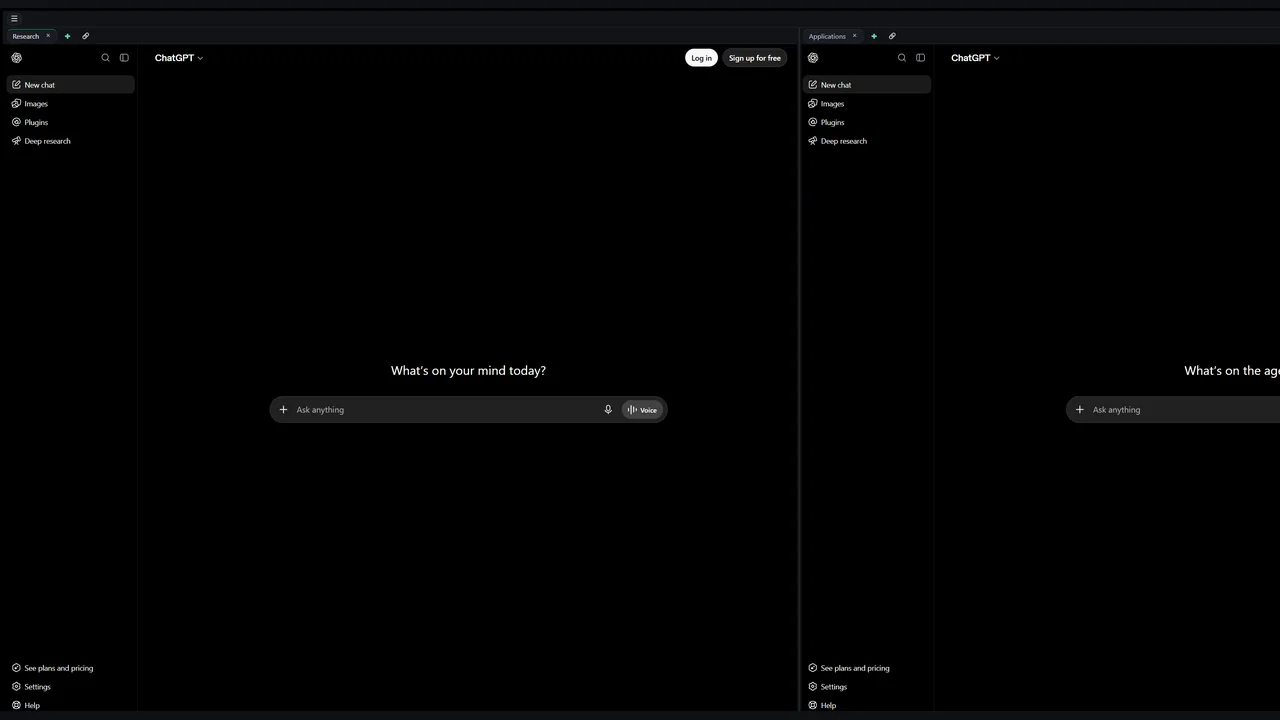
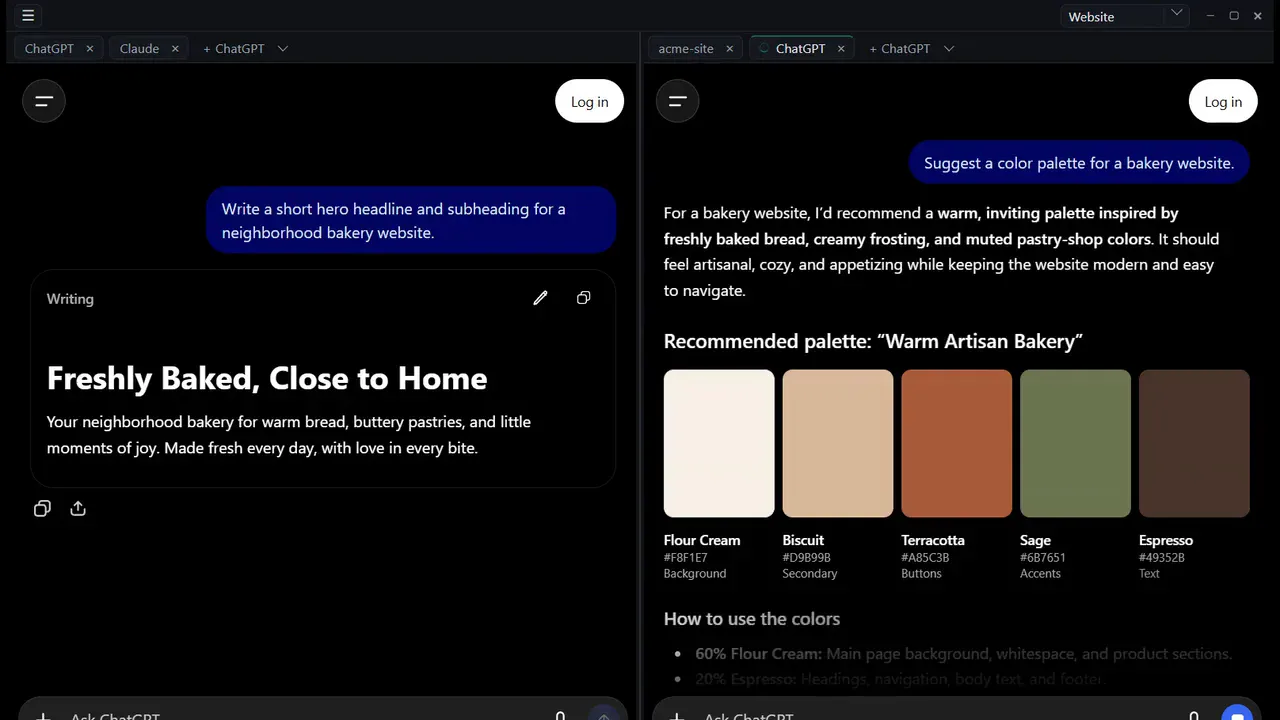
feat(projects): refresh the ChatDeck card (#22)
ChatDeck now covers Claude, terminal tabs and macOS, and has a public
page. The card links that page next to the private-repo note, and the
preview is the synthetic demo screenshot instead of one showing an
"Applications" pane.

diff --git a/src/data/homepage.de.ts b/src/data/homepage.de.ts
@@ -283,16 +283,18 @@ export const honourableProjects = [
     previewAlt: 'LangGraph-Workflow-Diagramm mit Routing zwischen Vektorsuche und Websuche',
   },
   {
-    title: 'Chatdeck: ChatGPT Multi-Tab',
-    tags: ['Rust', 'Tauri', 'WebView2', 'Windows'],
+    title: 'ChatDeck: KI-Chat-Arbeitsplatz',
+    tags: ['Rust', 'Tauri', 'WebView2', 'Windows', 'macOS'],
     highlights: [
-      'Entwickelte eine Windows-Desktop-Shell für bis zu acht gleichzeitige ChatGPT-WebView2-Sitzungen mit gemeinsamer Anmeldung und Tastaturnavigation.',
-      'Ergänzte persistente Tab-Gruppen, verschieb- und größenveränderbare Split-Panes und portables Packaging ohne Nutzung oder Umgehung der OpenAI-API.',
+      'Entwickelte einen nativen Desktop-Arbeitsplatz, der ChatGPT, Claude und Terminal-Tabs in horizontal und vertikal geteilten Bereichen nebeneinanderstellt, mit einer Tab-Gruppe pro Projekt und Suche über alle Tabs.',
+      'Lieferte Installer für Windows und macOS (Apple Silicon und Intel) über GitHub Actions aus, mit In-App-Updater unter Windows, ohne Nutzung oder Umgehung der OpenAI- oder Anthropic-API.',
     ],
     href: 'https://github.com/ErmisCho/chatdeck',
     private: true,
+    alternateHref: 'https://ermischo.github.io/chatdeck-releases/',
+    alternateLabel: 'Website',
     preview: chatdeckPreview,
-    previewAlt: 'Chatdeck-Desktopfenster mit zwei nebeneinanderliegenden ChatGPT-WebView-Bereichen für Recherche und Bewerbungen',
+    previewAlt: 'ChatDeck-Fenster mit einer ChatGPT-Antwort in einem Bereich und einem zweiten Chat mit einem Farbvorschlag im anderen',
   },
   {
     title: 'AI Interview Coach DACH',

diff --git a/src/data/homepage.ts b/src/data/homepage.ts
@@ -283,16 +283,18 @@ export const honourableProjects = [
     previewAlt: 'LangGraph workflow diagram showing routing between vector retrieval and web search',
   },
   {
-    title: 'Chatdeck: ChatGPT Multi-Tab',
-    tags: ['Rust', 'Tauri', 'WebView2', 'Windows'],
+    title: 'ChatDeck: AI Chat Workspace',
+    tags: ['Rust', 'Tauri', 'WebView2', 'Windows', 'macOS'],
     highlights: [
-      'Built a Windows desktop shell for up to eight simultaneous ChatGPT WebView2 sessions with shared login and keyboard navigation.',
-      'Added persistent tab groups, draggable and resizable split panes, and portable packaging without using or bypassing the OpenAI API.',
+      'Built a native desktop workspace that puts ChatGPT, Claude and terminal tabs side by side in panes split horizontally and vertically, with a tab group per project and search across every tab.',
+      'Shipped installers for Windows and macOS (Apple Silicon and Intel) through GitHub Actions, with an in-app updater on Windows, without using or bypassing the OpenAI or Anthropic APIs.',
     ],
     href: 'https://github.com/ErmisCho/chatdeck',
     private: true,
+    alternateHref: 'https://ermischo.github.io/chatdeck-releases/',
+    alternateLabel: 'Website',
     preview: chatdeckPreview,
-    previewAlt: 'Chatdeck desktop window showing two side-by-side ChatGPT WebView panes labelled Research and Applications',
+    previewAlt: 'ChatDeck window with a ChatGPT answer in one pane and a second chat proposing a colour palette in the other',
   },
   {
     title: 'AI Interview Coach DACH',
